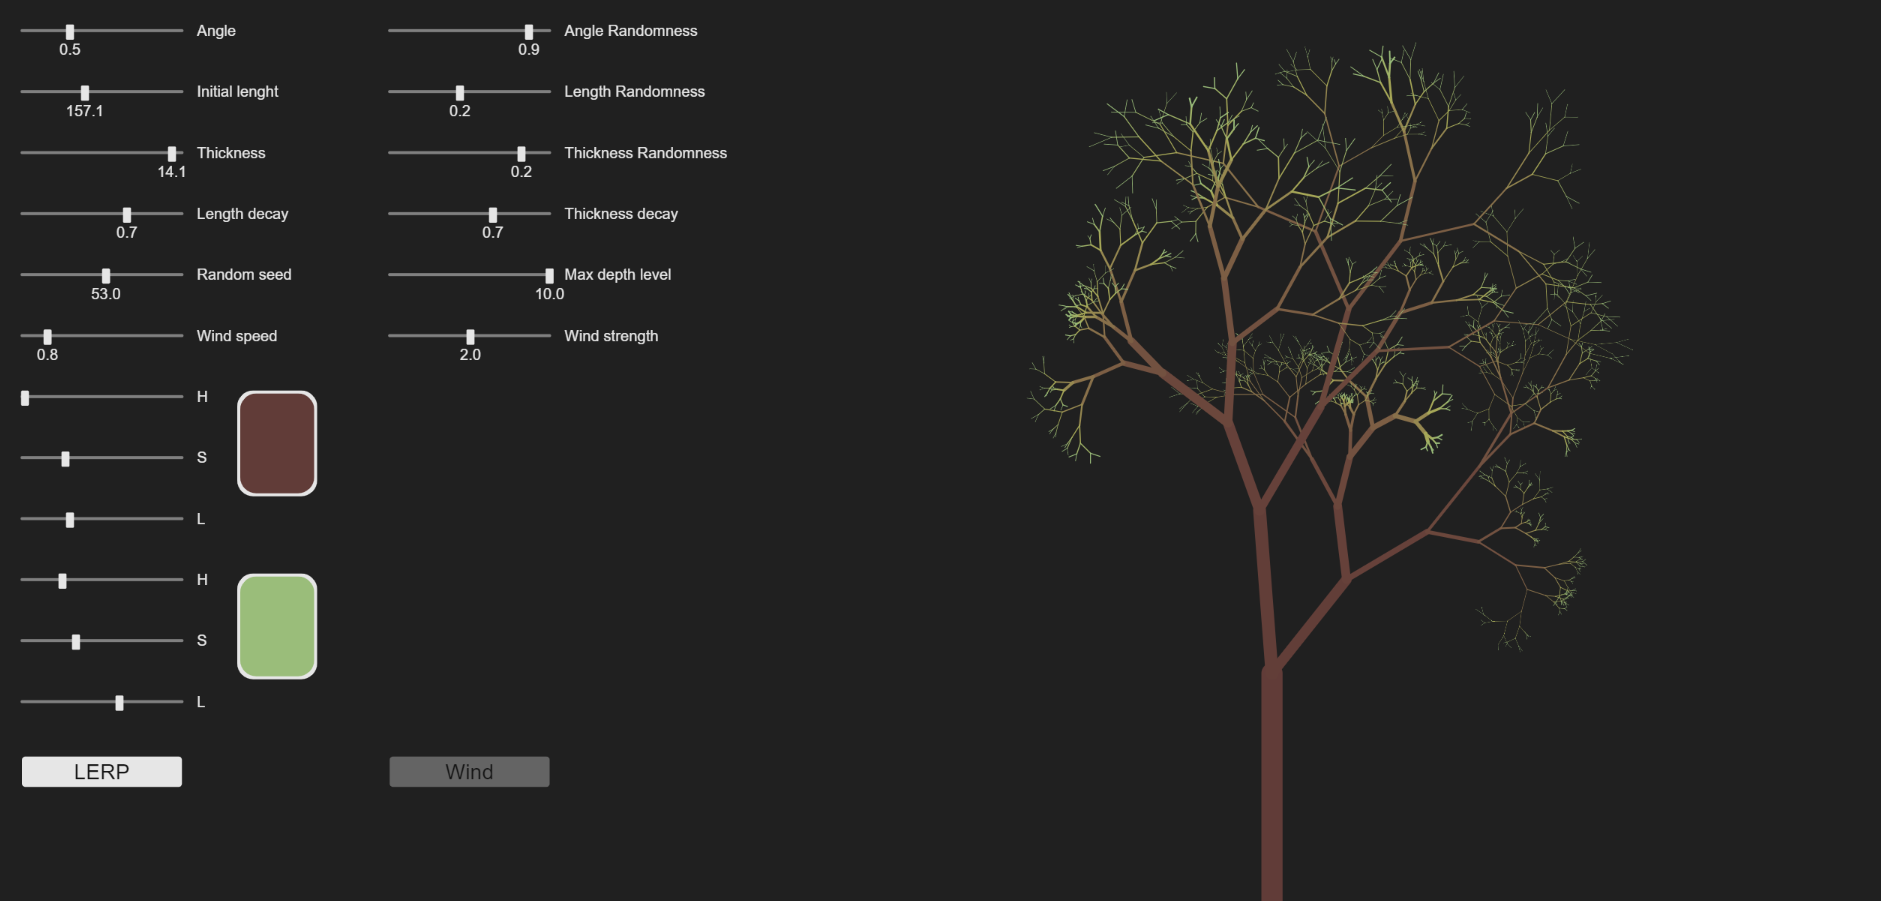
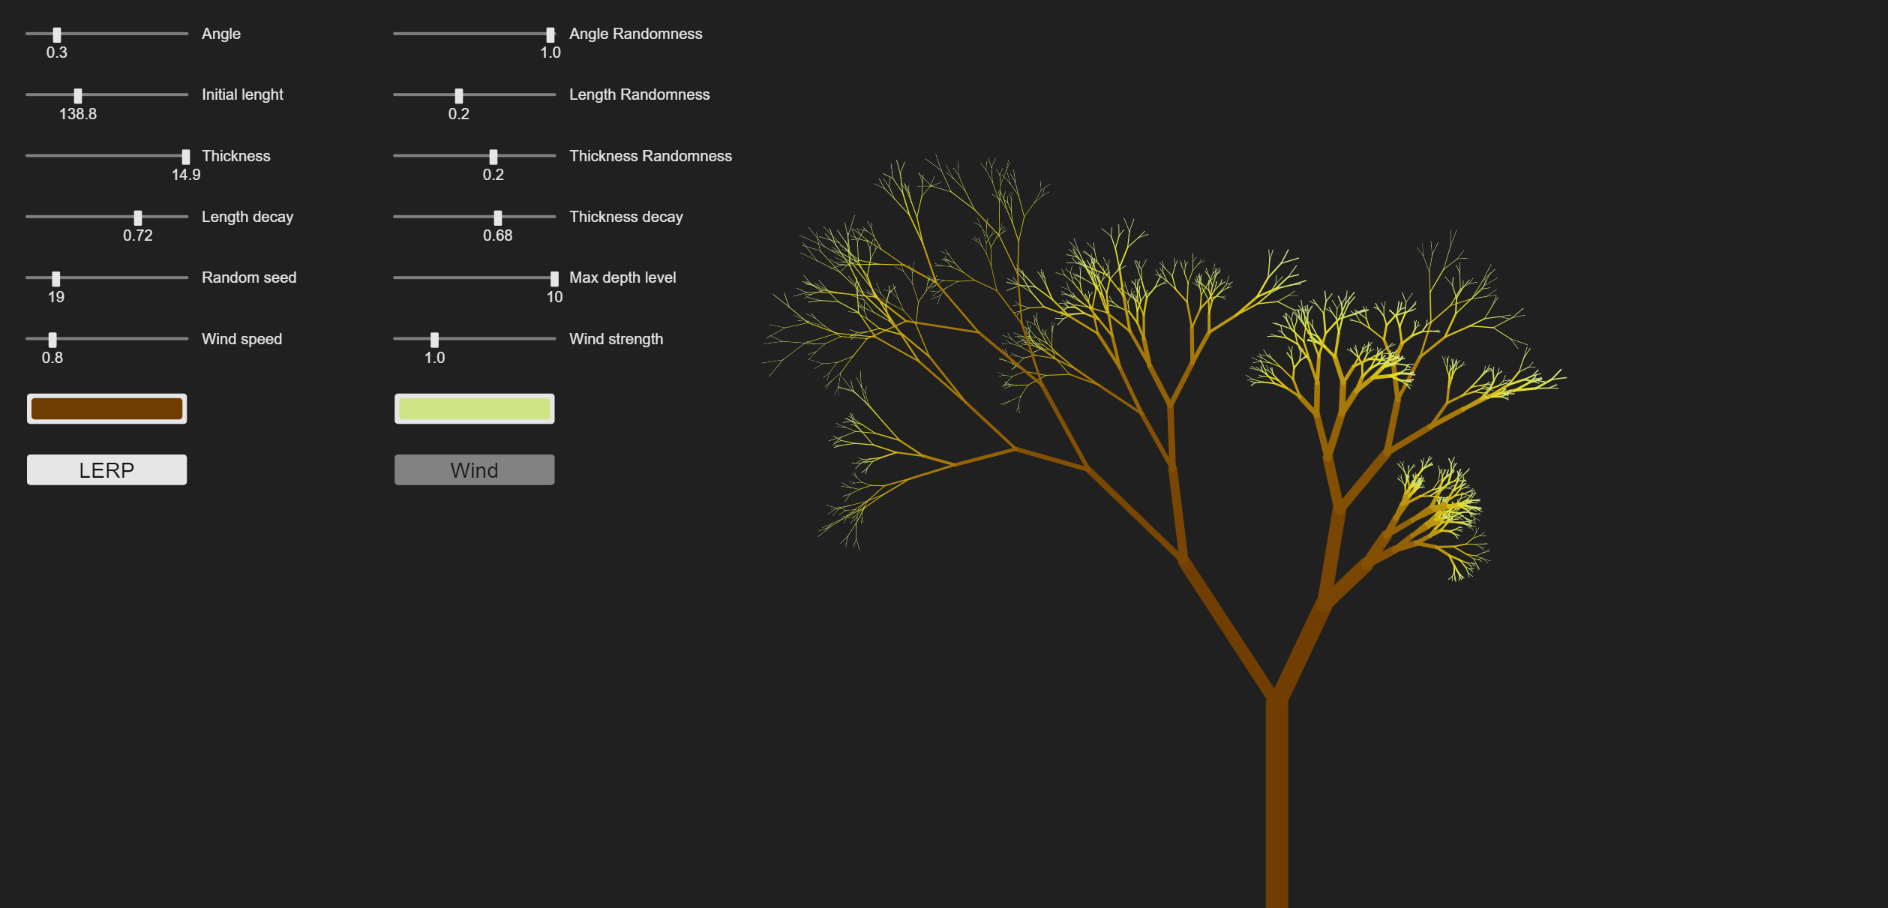
UI update

diff --git a/UI/color_picker.js b/UI/color_picker.js
@@ -12,49 +12,91 @@ class ColorPicker extends UiElement {
      * @param y Y position of the secon slider
      * @param width Width of the sliders
      * @param height Height of the sliders
-     * @param margins Margin between the sliders
-     * @param values Default values
+     * @param color Default color
      * @param action Action perfomed when color changes
      */
-    constructor(x=20, y=20, width=100, height=10, margins=20, nempty=0, values=null, action=null) {
-        super(x,y,width,height, false, false, false);
-        this.margins = margins;
+    constructor(x=20, y=20, width=100, height=10, color=null, text="", action=null) {
+        super(x,y,width,height, false, true);
+        this.text = text;
+        this.action = action;
 
-        let tmp;
-        this.hueSld = new Slider(0, 1, values==null ? 0.5 : values[0], x, y, width, height, null, "H", false, 0, action);
-        for(let i = 0; i < nempty; i++)
-            tmp = new UiElement();
+        this.configInput(color);
+    }
 
-        this.satSld = new Slider(0, 1, values==null ? 0.5 : values[1], x, y + height + margins, width, height, null, "S", false, 0, action);
-        for(let i = 0; i < nempty; i++)
-            tmp = new UiElement();
+    /**
+     * Create a color input element
+     * and hide it
+     * 
+     * @param color default color of the input (in hex)
+     */
+    configInput(color) {
+        // Create and configure input
+        this.input = document.createElement("input");
+        this.input.setAttribute("type", "color");
+        this.input.setAttribute("tabindex", "-1");
 
-        this.ligSld = new Slider(0, 1, values==null ? 0.5 : values[2], x, y + height*2 + margins*2, width, height, null, "L", false, 0, action);
-        for(let i = 0; i < nempty; i++)
-            tmp = new UiElement();
+        this.input.value = color==null ? "#B7E2F0" : color;        
+        this.input.style.visibility = "hidden";
+        this.input.style.position = "absolute";
+        this.input.style.left = this.x.toString() + "px";
+        this.input.style.top = this.y.toString() + "px";
+        this.input.style.height = (this.height-4).toString() + "px";
 
-        this.forceDraw = true;
+        document.body.appendChild(this.input);
+    }
+
+    /**
+     * Sets the new position of the element 
+     * and also sets the new position of the input
+     * 
+     * @param x 
+     * @param y
+     */
+    setPos(x, y) { 
+        this.x = x;
+        this.y = y;
+        this.input.style.left = this.x.toString() + "px";
+        this.input.style.top = this.y.toString() + "px";
     }
 
     /**
      * Draws the rectangle representing the color
      */
     draw() {
-        fill(230);
-        rect(this.hueSld.x + this.satSld.getWidth() + this.margins, this.hueSld.y, this.width/2, this.height*3 + this.margins*2, this.width/10);
+        fill(this.highlighted ? 200 : 230);
+        rect(this.x, this.y, this.width, this.height, this.height/9);
+        // Draw the text
+        textAlign(CENTER);
+        textSize(this.height/2);
+        text(this.text, this.x + this.width/2, this.y - this.height/6);
 
-        colorMode(HSL, 1);
         fill(this.getColor());
-        rect(this.hueSld.x + this.satSld.getWidth() + this.margins + 2, this.hueSld.y + 2, this.width/2 - 4, this.height*3 + this.margins*2 - 4, this.width/10)
-
-        colorMode(RGB, 255);
+        rect(this.x + 3, this.y + 3, this.width - 6, this.height - 6, this.height/9);
     }
 
     /**
-     * @return an array containing the hsl values of the color
+     * @return the color choosen in this color picker
      */
     getColor() {
-        colorMode(HSL, 1);
-        return color(this.hueSld.value, this.satSld.value, this.ligSld.value);
+        return color(this.input.value);
+    }
+
+    /**
+     * @return The height of the element
+     */
+    getHeight() {
+        return this.text=="" ? this.height : this.height*1.5;
+    }
+
+    /**
+     * Checks if mouse is inside the button
+     * if so performs the action
+     */
+    clicked() {
+        if(this.mouseIsOver()) {
+            this.input.focus();
+            this.input.click();
+            if(this.action != null) this.action();
+        }
     }
 }

diff --git a/UI/ui.js b/UI/ui.js
@@ -30,8 +30,7 @@ class UI{
             if(e.visible) {
                 let col = this.distributed % this.tableWidth;
                 let row = floor(this.distributed / this.tableWidth);
-                e.x = colWidth*col + this.widthMargin;
-                e.y = rowHeight*row + this.heightMargin;
+                e.setPos(colWidth*col + this.widthMargin, rowHeight*row + this.heightMargin);
                 this.distributed += 1;
             }
         }    
@@ -74,7 +73,7 @@ class UI{
      */
     static draw() {
         for (let e of this.elements){
-            if(e.visible || e.forceDraw)
+            if(e.visible)
                 e.draw();
         }
     }

diff --git a/sketch.js b/sketch.js
@@ -32,9 +32,8 @@ function setup() {
 	windSpeedSld = new Slider(start=0, end=5, value=0.8, 0, 0, width/12, height/60, null, "Wind speed");
 	windStrengthSld = new Slider(start=0, end=4, value=1, 0, 0, width/12, height/60, null, "Wind strength");
 
-	let color = [1,1,1];
-	color1 = new ColorPicker(0,0,width/12, height/60, 20, 1, color);
-	color2 = new ColorPicker(0,0,width/12, height/60, 20, 1, color);
+	color1 = new ColorPicker(0,0,width/12, height/30, "#743E01");
+	color2 = new ColorPicker(0,0,width/12, height/30, "#B0F3AF");
 
 	lerpBtn = new ToggleButton(0,0,width/12, height/30, "LERP");
 	windBtn = new ToggleButton(0,0,width/12, height/30, "Wind");

diff --git a/UI/ui_element.js b/UI/ui_element.js
@@ -23,7 +23,6 @@ class UiElement{
 
         this.highlighted = false;
         this.visible = visible;
-        this.forceDraw = false;
 
         UI.addElement(this);
     }
@@ -62,5 +61,16 @@ class UiElement{
      */
     mouseIsOver(){
         return mouseX >= this.x && mouseX <= this.x + this.width && mouseY >= this.y && mouseY <= this.y + this.height;
+    }
+
+    /**
+     * Sets the new position of the element 
+     * 
+     * @param x 
+     * @param y
+     */
+    setPos(x, y) {
+        this.x = x;
+        this.y = y;
     }
 }
